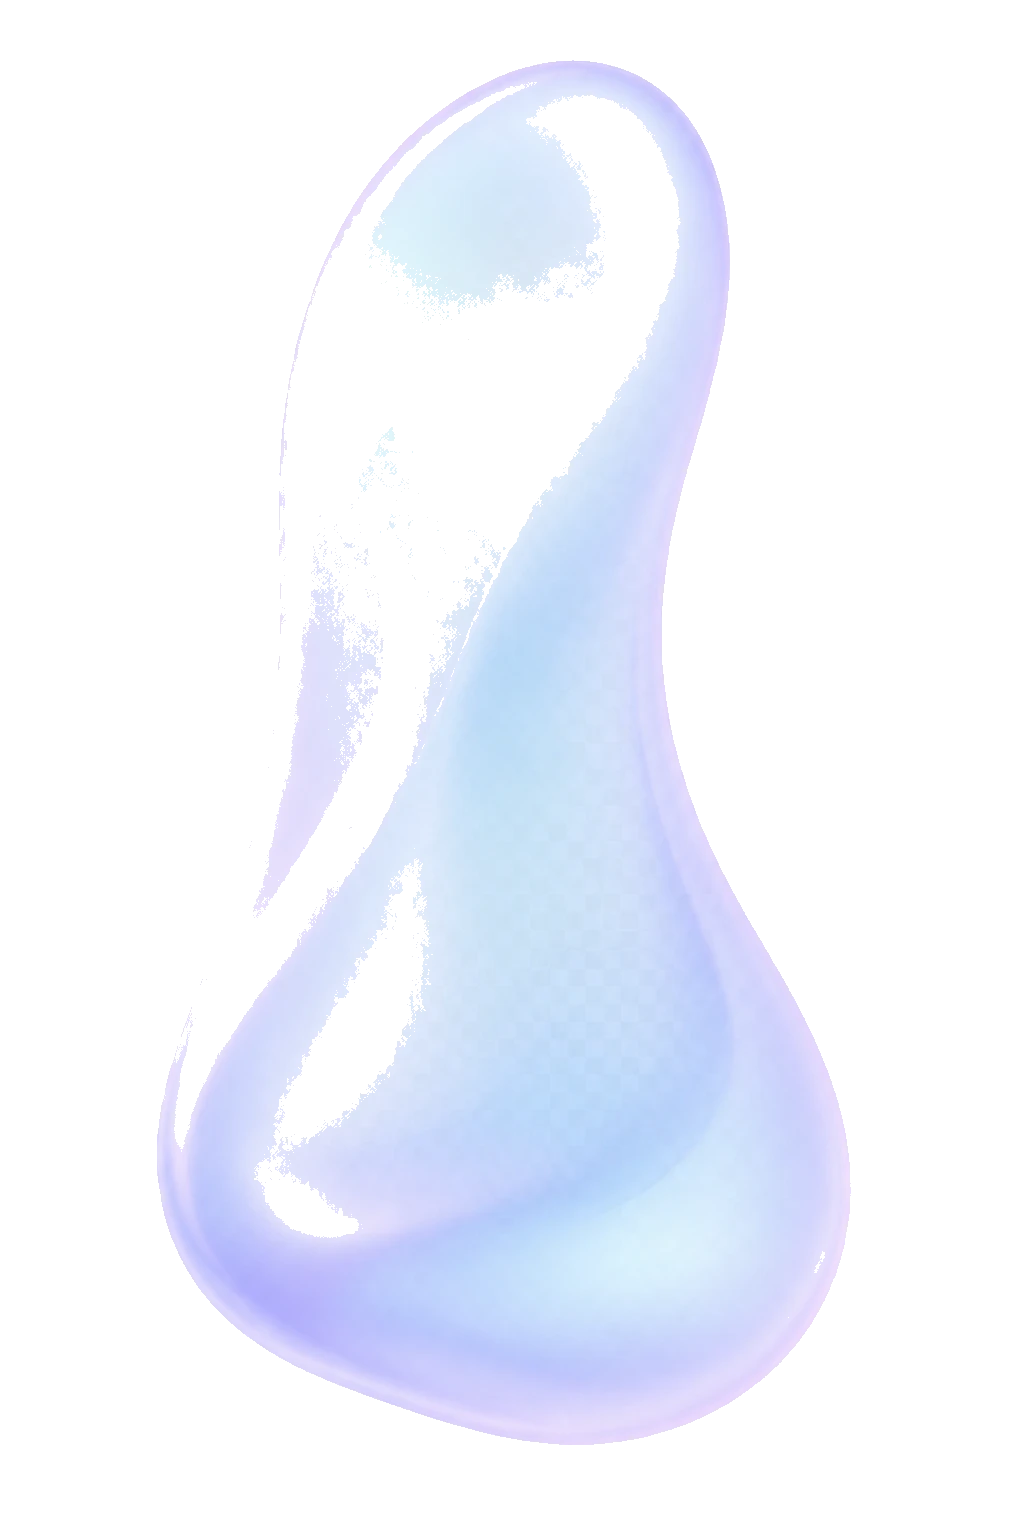
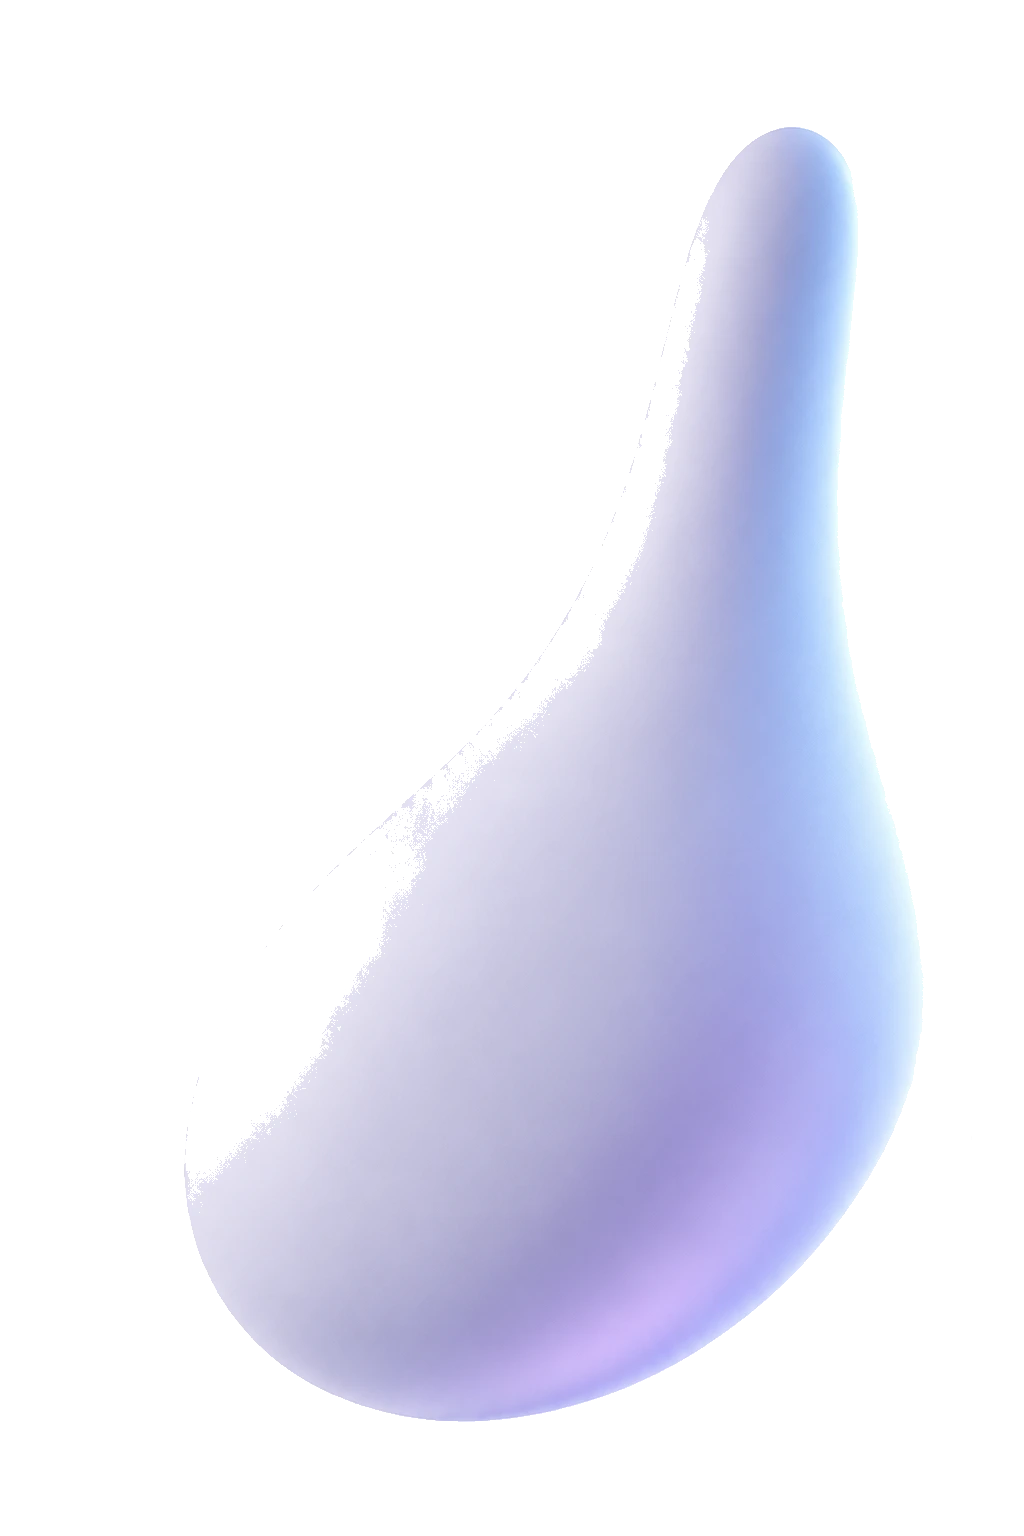
Refine Option 4 hero shapes and hero chrome
Replace overexposed pastel parallax assets with richer light-mode fluid
shapes, restore horizontal padding inside Unified Model Access, and strip
the API URL row of any container backdrop.

diff --git a/src/option4-theme.css b/src/option4-theme.css
@@ -286,8 +286,7 @@
   color: #ffffff !important;
 }
 
-/* Kill card UI everywhere */
-.theme-sic .tr-landing-model-access-panel,
+/* Kill card UI everywhere (except model-access panel container) */
 .theme-sic .tr-landing-hero-url-box,
 .theme-sic .tr-landing-model-access-row,
 .theme-sic .tr-landing-model-access-summary,
@@ -336,15 +335,32 @@
   width: 100% !important;
 }
 
-.theme-sic .tr-landing-model-access-panel {
-  border-top: 1px solid var(--sic-line) !important;
+.theme-sic .tr-landing-model-access-panel,
+.theme-sic .tr-landing-model-access-panel.bg-white {
+  background: #ffffff !important;
+  background-color: #ffffff !important;
+  border: 1px solid var(--sic-line) !important;
+  border-radius: 16px !important;
+  box-shadow: none !important;
   padding-top: 28px !important;
+  padding-bottom: 28px !important;
+  padding-left: 40px !important;
+  padding-right: 40px !important;
 }
 
-.theme-sic .tr-landing-model-access-row {
+.theme-sic .tr-landing-model-access-row,
+.theme-sic .tr-landing-model-access-row.bg-white {
   border-bottom: 1px solid var(--sic-line) !important;
-  padding: 14px 0 !important;
+  border-left: 0 !important;
+  border-right: 0 !important;
+  border-top: 0 !important;
+  padding-top: 14px !important;
+  padding-bottom: 14px !important;
+  padding-left: 0 !important;
+  padding-right: 0 !important;
   border-radius: 0 !important;
+  background: transparent !important;
+  background-color: transparent !important;
 }
 
 .theme-sic .tr-landing-model-access-row:hover {
@@ -356,12 +372,36 @@
   padding: 16px 0 0 !important;
 }
 
-.theme-sic .tr-landing-hero-url-box {
-  border-bottom: 1px solid var(--sic-line) !important;
+/* URL row: plain text + copy, no container/backdrop */
+.theme-sic .tr-landing-hero-url-box,
+.theme-sic .tr-landing-hero-url-box.bg-white {
+  background: transparent !important;
+  background-color: transparent !important;
+  border: 0 !important;
+  border-bottom: 0 !important;
+  box-shadow: none !important;
   border-radius: 0 !important;
-  padding-left: 0 !important;
-  padding-right: 0 !important;
+  padding: 0 !important;
   gap: 12px !important;
+  min-height: 0 !important;
+  height: auto !important;
+}
+
+.theme-sic .tr-landing-hero-url-text {
+  background: transparent !important;
+}
+
+.theme-sic .tr-landing-hero-copy-button,
+.theme-sic .tr-landing-hero-copy-button.bg-white {
+  background: transparent !important;
+  background-color: transparent !important;
+  border: 1px solid var(--sic-line-strong) !important;
+  color: var(--sic-ink) !important;
+  border-radius: 2px !important;
+  min-height: 36px !important;
+  height: auto !important;
+  padding: 8px 14px !important;
+  box-shadow: none !important;
 }
 
 .theme-sic .tr-landing-hero-primary-button,
@@ -384,8 +424,7 @@
 }
 
 .theme-sic .tr-landing-hero-secondary-button,
-.theme-sic .tr-landing-cta-secondary,
-.theme-sic .tr-landing-hero-copy-button {
+.theme-sic .tr-landing-cta-secondary {
   background: transparent !important;
   border: 1px solid var(--sic-line-strong) !important;
   color: var(--sic-ink) !important;
@@ -607,7 +646,7 @@
   height: auto;
   aspect-ratio: 16 / 9;
   z-index: 1;
-  opacity: 0.72;
+  opacity: 0.9;
 }
 
 .theme-sic .hero-parallax__shape--wave {
@@ -617,7 +656,7 @@
   height: auto;
   aspect-ratio: 16 / 9;
   z-index: 2;
-  opacity: 0.7;
+  opacity: 0.88;
 }
 
 .theme-sic .hero-parallax__shape--bulb {
@@ -627,7 +666,7 @@
   height: auto;
   aspect-ratio: 3 / 4;
   z-index: 3;
-  opacity: 0.68;
+  opacity: 0.86;
 }
 
 .theme-sic .hero-parallax__veil {
@@ -635,7 +674,7 @@
   inset: 0;
   z-index: 4;
   background:
-    linear-gradient(180deg, rgba(255, 255, 255, 0.2) 0%, rgba(255, 255, 255, 0.05) 40%, rgba(255, 255, 255, 0.55) 100%);
+    linear-gradient(180deg, rgba(255, 255, 255, 0.08) 0%, rgba(255, 255, 255, 0) 38%, rgba(255, 255, 255, 0.35) 100%);
 }
 
 @media (max-width: 900px) {

diff --git a/option-4.html b/option-4.html
@@ -130,10 +130,10 @@
               </div>
               <p class="tr-landing-hero-subtitle mt-6 text-[17px] leading-[1.3] text-black lg:text-[20px] m-0">Just switch your base URL.</p>
               <div class="mt-6 flex w-full max-w-full flex-col lg:w-fit">
-                <div class="tr-landing-hero-url-box flex min-w-0 max-w-full items-center gap-[10px] rounded-[10px] border border-[#E2E8F0] bg-white pl-[12px] pr-[6px] py-[6px] lg:h-[58px] lg:rounded-[14px] lg:pl-[17px] lg:pr-[10px] lg:py-[13px]">
+                <div class="tr-landing-hero-url-box flex min-w-0 max-w-full items-center gap-[10px] bg-transparent pl-0 pr-0 py-0">
                   <span class="tr-landing-hero-url-dot h-[6px] w-[6px] shrink-0 rounded-full bg-[#00D492]"></span>
                   <span class="tr-landing-hero-url-text min-w-0 flex-1 overflow-hidden text-ellipsis whitespace-nowrap font-mono text-[11px] text-[#45474D] lg:text-[16px]" id="api-url">https://api.tokenrouter.com/v1</span>
-                  <button type="button" id="copy-btn" class="tr-landing-hero-copy-button inline-flex h-[30px] min-w-[70px] items-center justify-center gap-2 rounded-full border border-[#E2E8F0] bg-white px-[15px] text-[14px] text-[#333] transition hover:bg-[#f5f5f5] lg:h-9 lg:min-w-[87px] lg:px-4">
+                  <button type="button" id="copy-btn" class="tr-landing-hero-copy-button inline-flex h-[30px] min-w-[70px] items-center justify-center gap-2 rounded-full border border-[#E2E8F0] bg-transparent px-[15px] text-[14px] text-[#333] transition hover:bg-[#f5f5f5] lg:h-9 lg:min-w-[87px] lg:px-4">
                     <svg width="14" height="14" viewBox="0 0 14 14" fill="none" aria-hidden="true"><path d="M11.5278 4.5625H5.43693C4.76415 4.5625 4.21875 5.1079 4.21875 5.78068V11.8716C4.21875 12.5444 4.76415 13.0898 5.43693 13.0898H11.5278C12.2006 13.0898 12.746 12.5444 12.746 11.8716V5.78068C12.746 5.1079 12.2006 4.5625 11.5278 4.5625Z" stroke="currentColor" stroke-linejoin="round"/><path d="M1.78459 9.43352C1.11459 9.43352 0.566406 8.88534 0.566406 8.21534V2.12443C0.566406 1.45443 1.11459 0.90625 1.78459 0.90625H7.87549C8.54549 0.90625 9.09367 1.45443 9.09367 2.12443" stroke="currentColor" stroke-linejoin="round"/></svg>
                     <span data-copy-label>Copy</span>
                   </button>
@@ -170,7 +170,7 @@
             </div>
 
             <div class="w-full min-w-0 max-w-full justify-self-end sm:max-w-[480px]">
-              <div class="tr-landing-model-access-panel box-border w-full min-w-0 max-w-full rounded-[16px] border border-[#E2E8F0] bg-white p-[20px] lg:rounded-[28px] lg:p-6">
+              <div class="tr-landing-model-access-panel box-border w-full min-w-0 max-w-full rounded-[16px] border border-[#E2E8F0] bg-white px-10 py-7 lg:rounded-[20px]">
                 <div class="mb-4 flex min-w-0 items-center justify-between gap-3 text-slate-500">
                   <span style="color:#121317;font-family:'PP Neue Montreal',sans-serif;font-size:16px;font-weight:500;line-height:140%;text-transform:none">Unified Model Access</span>
                   <a href="#" class="tr-landing-model-access-action inline-flex items-center gap-[8px] bg-transparent text-[#0086FF] transition-colors hover:text-[#0076ed]" style="font-family:'PP Neue Montreal',sans-serif;font-size:14px;font-weight:400;line-height:140%">View All Models <svg width="12" height="14" viewBox="0 0 12 14" fill="none" aria-hidden="true"><path d="M4.64893 2.29785L9.35156 7.00049L4.64893 11.7031" stroke="currentColor" stroke-width="1.5" stroke-linecap="round" stroke-linejoin="round"/></svg></a>
